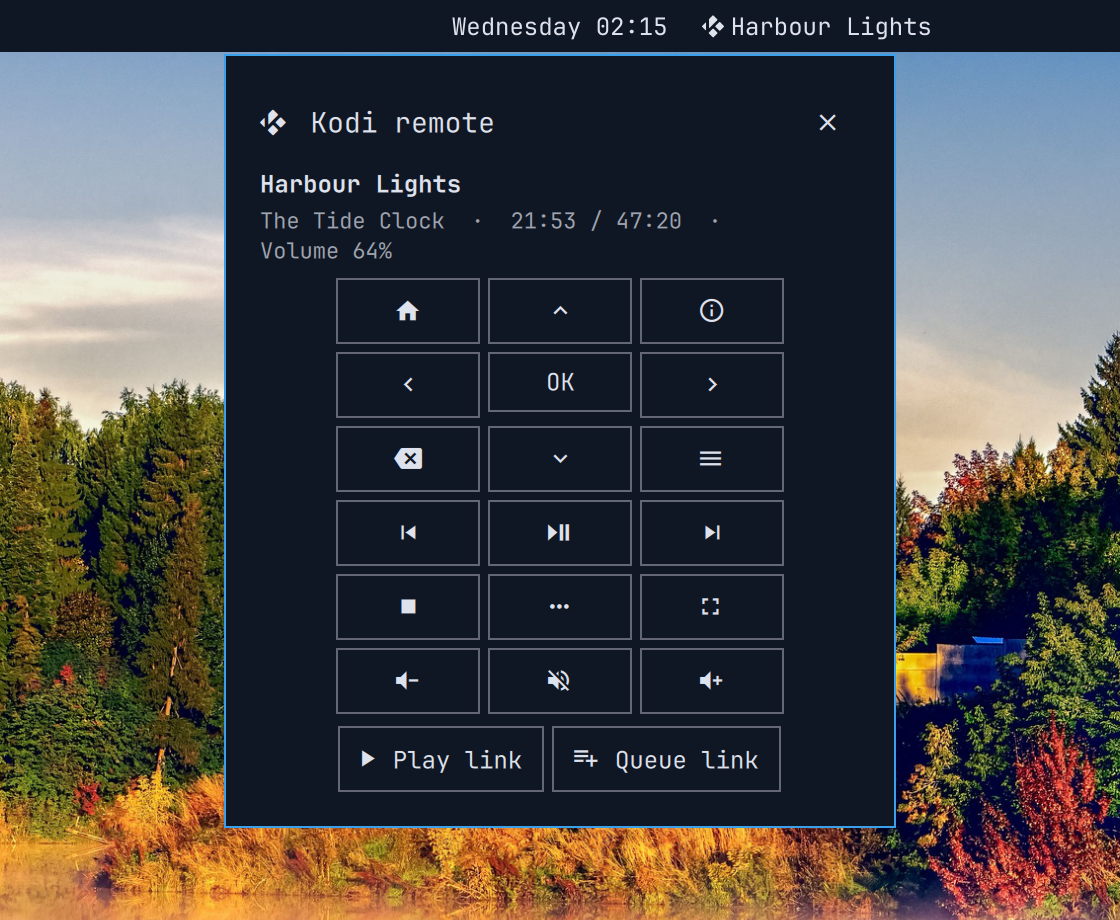
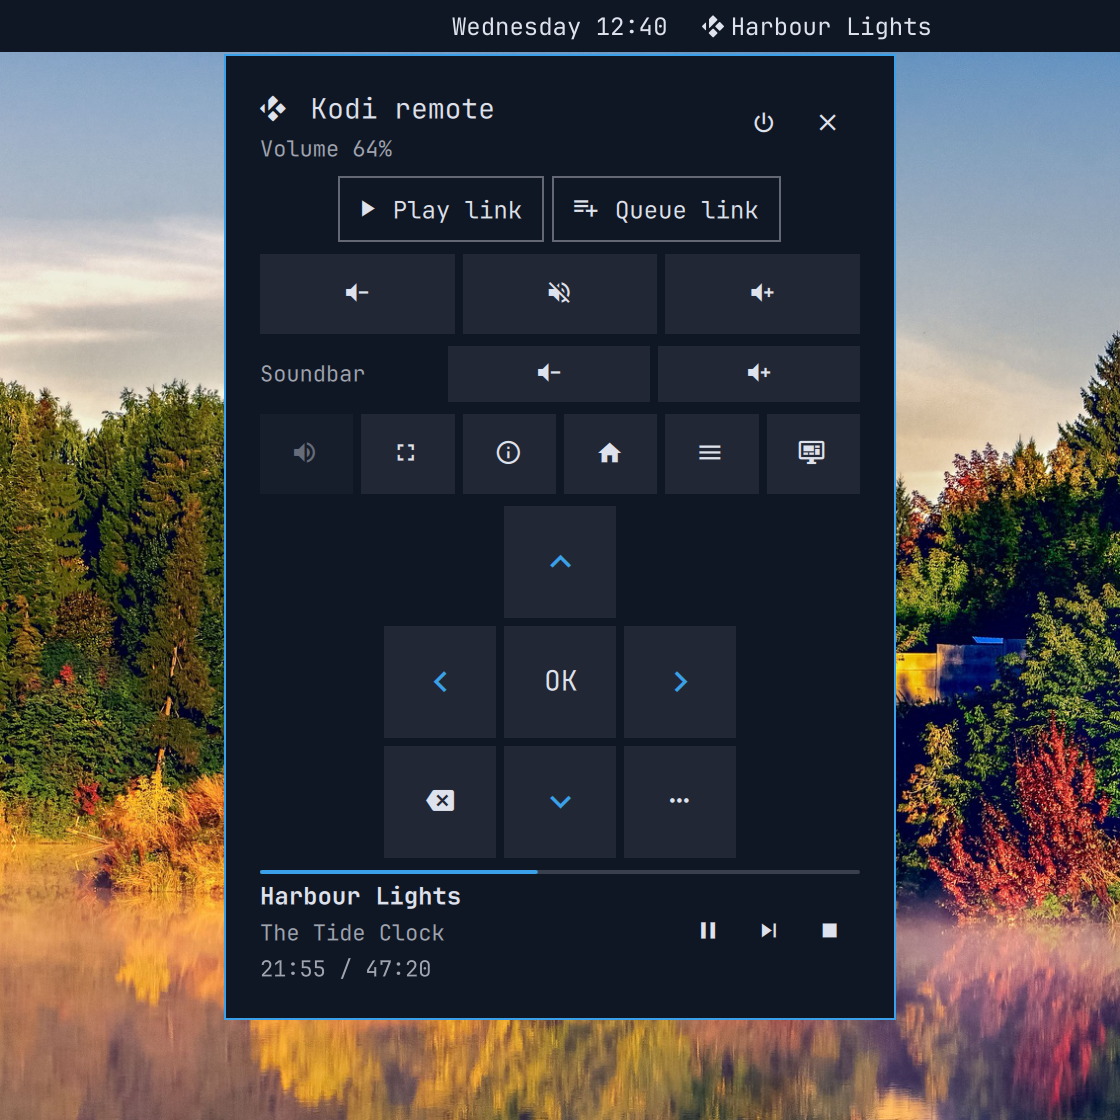
037: 0.2.0: version, changelog, a preview of the new remote
The remote grew taller (now playing at the bottom), so the screenshot crop
is 560 logical px high now.

diff --git a/CHANGELOG.md b/CHANGELOG.md
@@ -2,7 +2,10 @@
 
 All notable changes to omakodi. Versions follow [Semantic Versioning](https://semver.org/).
 
-## Unreleased
+## 0.2.0 (2026-11-18)
+
+The complete remote: what plays, the queue, details, audio tracks, power,
+the soundbar and Kodi's own volume.
 
 ### Added
 
@@ -38,6 +41,19 @@ All notable changes to omakodi. Versions follow [Semantic Versioning](https://se
   `w`; `omakodi wake`) turns the box on, with the MAC address omakodi read
   while Kodi was on (or `mac` in the config). `wakeOnLan: false` turns it
   off for a box that can't be woken.
+
+### Changed
+
+- **`+` `-` `m` act on Kodi's own volume.** In 0.1.0 they sent Kodi's
+  volume keys, which Kodi passes to the TV or soundbar over HDMI-CEC when
+  it is set up to; that is now the Soundbar row (`9` `0`). `omakodi
+  control volup`/`voldown`/`mute` changed the same way; the old behaviour
+  is `soundbarup`/`soundbardown`.
+
+### Fixed
+
+- While Kodi isn't answering, a long error no longer pushes the fix ("Is
+  Kodi on…") out of the remote's header.
 
 ## 0.1.0 (2026-11-18)
 

diff --git a/tickets/037-release-0-2-0.md b/tickets/037-release-0-2-0.md
@@ -1,0 +1,22 @@
+---
+id: 037
+title: Release 0.2.0 on GitHub
+milestone: M5
+depends_on: [023, 024, 025, 026, 027, 028, 029, 030, 031, 032, 033, 034, 035, 036]
+---
+
+## Goal
+
+The M5 remote on GitHub as v0.2.0: push `main`, tag and release. The
+marketplace listing stays with 022 (the user: wait).
+
+## Done when
+
+- [ ] Nothing private in the commits since v0.1.0; `preview.png` shows
+      the new remote (fictional data).
+- [ ] `manifest.json` 0.2.0, CHANGELOG dated; `tests/run` and the release
+      preflight pass.
+- [ ] Pushed; CI green on the release commit.
+- [ ] Fresh install, upgrade from v0.1.0 and removal, in a throwaway HOME.
+- [ ] Annotated tag v0.2.0 on the tested commit, pushed; GitHub release
+      with the CHANGELOG's 0.2.0 notes.

diff --git a/tickets/README.md b/tickets/README.md
@@ -81,6 +81,7 @@ grow the remote itself; no second panel.
 | 034 | [Audio tracks say their language](034-audio-track-languages.md) | 033 | done |
 | 035 | [The remote's layout, keys grouped by what they do](035-remote-layout.md) | 023, 025, 026, 033 | done |
 | 036 | [The header shows the whole fix when Kodi isn't answering](036-header-error-lines.md) | 029, 035 | done |
+| 037 | [Release 0.2.0 on GitHub](037-release-0-2-0.md) | 023–036 | in progress |
 
 ### M4 Listing: in the marketplace once the remote is complete
 
